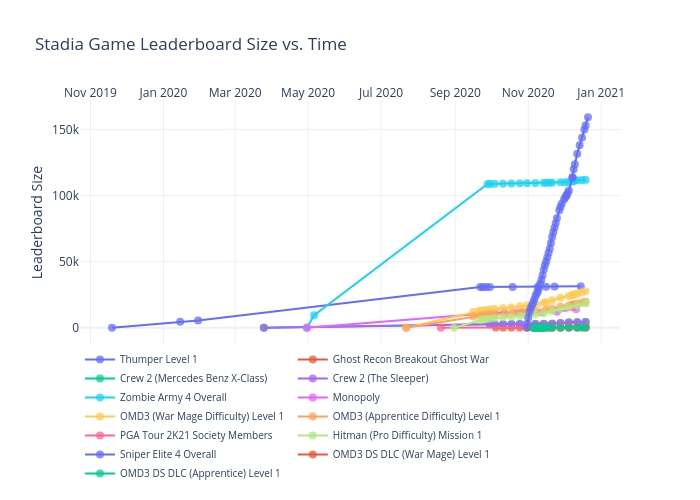
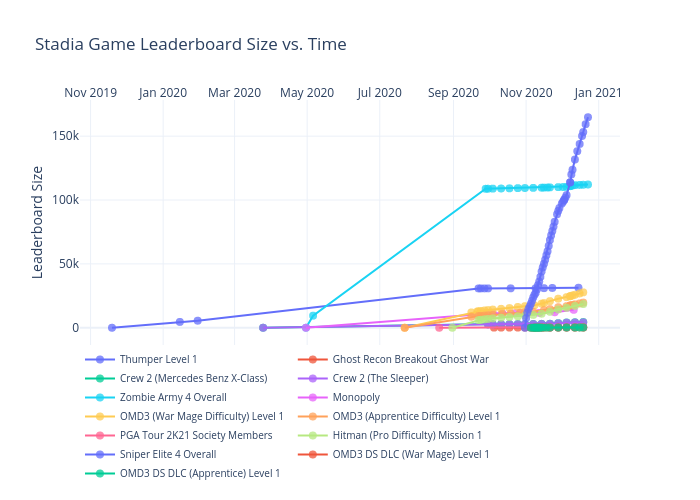
Add files via upload

diff --git a/leaderboards/figure.js b/leaderboards/figure.js
@@ -92,6 +92,7 @@ var figure = {
                 "2020-12-18",
                 "2020-12-19",
                 "2020-12-21",
+                "2020-12-23",
                 "2020-12-26",
                 "2020-12-31",
                 "2020-01-02"
@@ -276,6 +277,7 @@ var figure = {
                 "2020-12-18",
                 "2020-12-19",
                 "2020-12-21",
+                "2020-12-23",
                 "2020-12-26",
                 "2020-12-31",
                 "2020-01-02"
@@ -463,6 +465,7 @@ var figure = {
                 "2020-12-18",
                 "2020-12-19",
                 "2020-12-21",
+                "2020-12-23",
                 "2020-12-26",
                 "2020-12-31",
                 "2020-01-02"
@@ -650,6 +653,7 @@ var figure = {
                 "2020-12-18",
                 "2020-12-19",
                 "2020-12-21",
+                "2020-12-23",
                 "2020-12-26",
                 "2020-12-31",
                 "2020-01-02"
@@ -837,6 +841,7 @@ var figure = {
                 "2020-12-18",
                 "2020-12-19",
                 "2020-12-21",
+                "2020-12-23",
                 "2020-12-26",
                 "2020-12-31",
                 "2020-01-02"
@@ -921,7 +926,9 @@ var figure = {
                 null,
                 "111799",
                 "",
-                "111928"
+                "111928",
+                null,
+                "112124"
             ],
             "marker": {
                 "size": 8,
@@ -1024,6 +1031,7 @@ var figure = {
                 "2020-12-18",
                 "2020-12-19",
                 "2020-12-21",
+                "2020-12-23",
                 "2020-12-26",
                 "2020-12-31",
                 "2020-01-02"
@@ -1205,6 +1213,7 @@ var figure = {
                 "2020-12-18",
                 "2020-12-19",
                 "2020-12-21",
+                "2020-12-23",
                 "2020-12-26",
                 "2020-12-31",
                 "2020-01-02"
@@ -1392,6 +1401,7 @@ var figure = {
                 "2020-12-18",
                 "2020-12-19",
                 "2020-12-21",
+                "2020-12-23",
                 "2020-12-26",
                 "2020-12-31",
                 "2020-01-02"
@@ -1579,6 +1589,7 @@ var figure = {
                 "2020-12-18",
                 "2020-12-19",
                 "2020-12-21",
+                "2020-12-23",
                 "2020-12-26",
                 "2020-12-31",
                 "2020-01-02"
@@ -1766,6 +1777,7 @@ var figure = {
                 "2020-12-18",
                 "2020-12-19",
                 "2020-12-21",
+                "2020-12-23",
                 "2020-12-26",
                 "2020-12-31",
                 "2020-01-02"
@@ -1953,6 +1965,7 @@ var figure = {
                 "2020-12-18",
                 "2020-12-19",
                 "2020-12-21",
+                "2020-12-23",
                 "2020-12-26",
                 "2020-12-31",
                 "2020-01-02"
@@ -2038,7 +2051,8 @@ var figure = {
                 "143879",
                 "150102",
                 "153200",
-                "159324"
+                "159324",
+                "164779"
             ],
             "marker": {
                 "size": 8,
@@ -2141,6 +2155,7 @@ var figure = {
                 "2020-12-18",
                 "2020-12-19",
                 "2020-12-21",
+                "2020-12-23",
                 "2020-12-26",
                 "2020-12-31",
                 "2020-01-02"
@@ -2328,6 +2343,7 @@ var figure = {
                 "2020-12-18",
                 "2020-12-19",
                 "2020-12-21",
+                "2020-12-23",
                 "2020-12-26",
                 "2020-12-31",
                 "2020-01-02"
@@ -2432,8 +2448,8 @@ var figure = {
             "side": "top",
             "type": "date",
             "range": [
-                "2019-10-25 01:23:41.841",
-                "2021-01-14 22:36:18.159"
+                "2019-10-24 22:23:12.805",
+                "2021-01-17 01:36:47.195"
             ],
             "title": {
                 "text": ""
@@ -2443,8 +2459,8 @@ var figure = {
         "yaxis": {
             "type": "linear",
             "range": [
-                -10999.193884979373,
-                170323.19388497938
+                -13909.915584415585,
+                178688.91558441558
             ],
             "title": {
                 "text": "Leaderboard Size"
